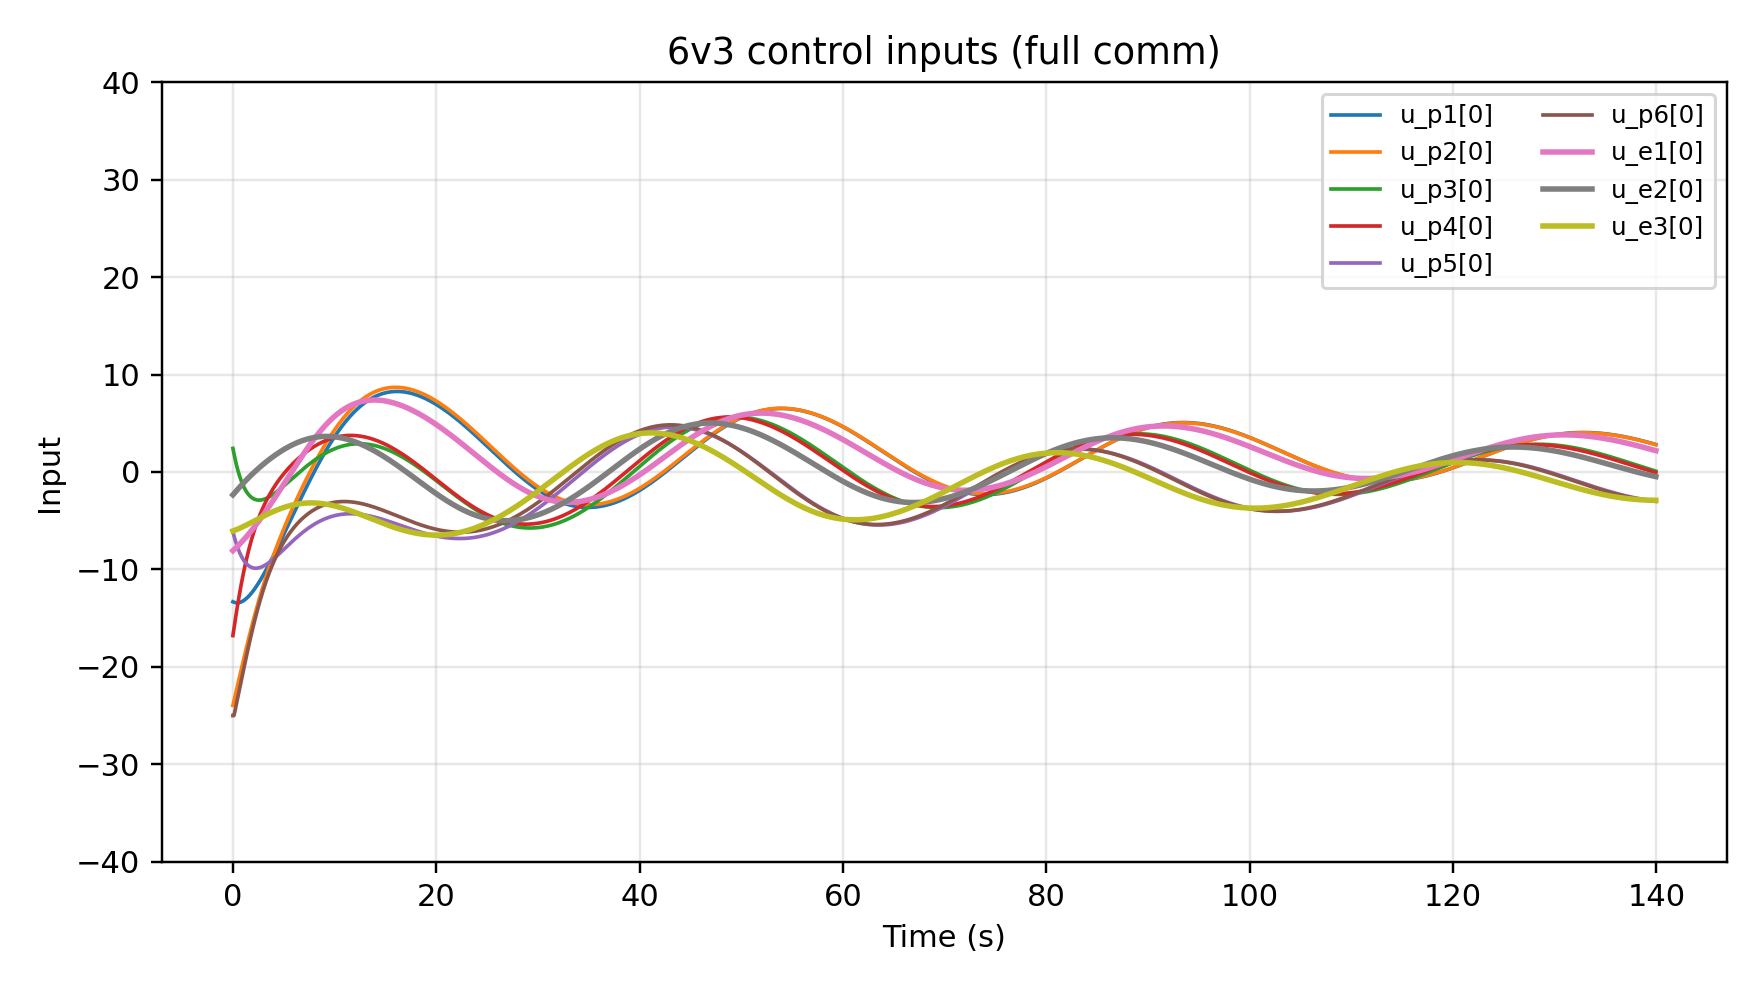
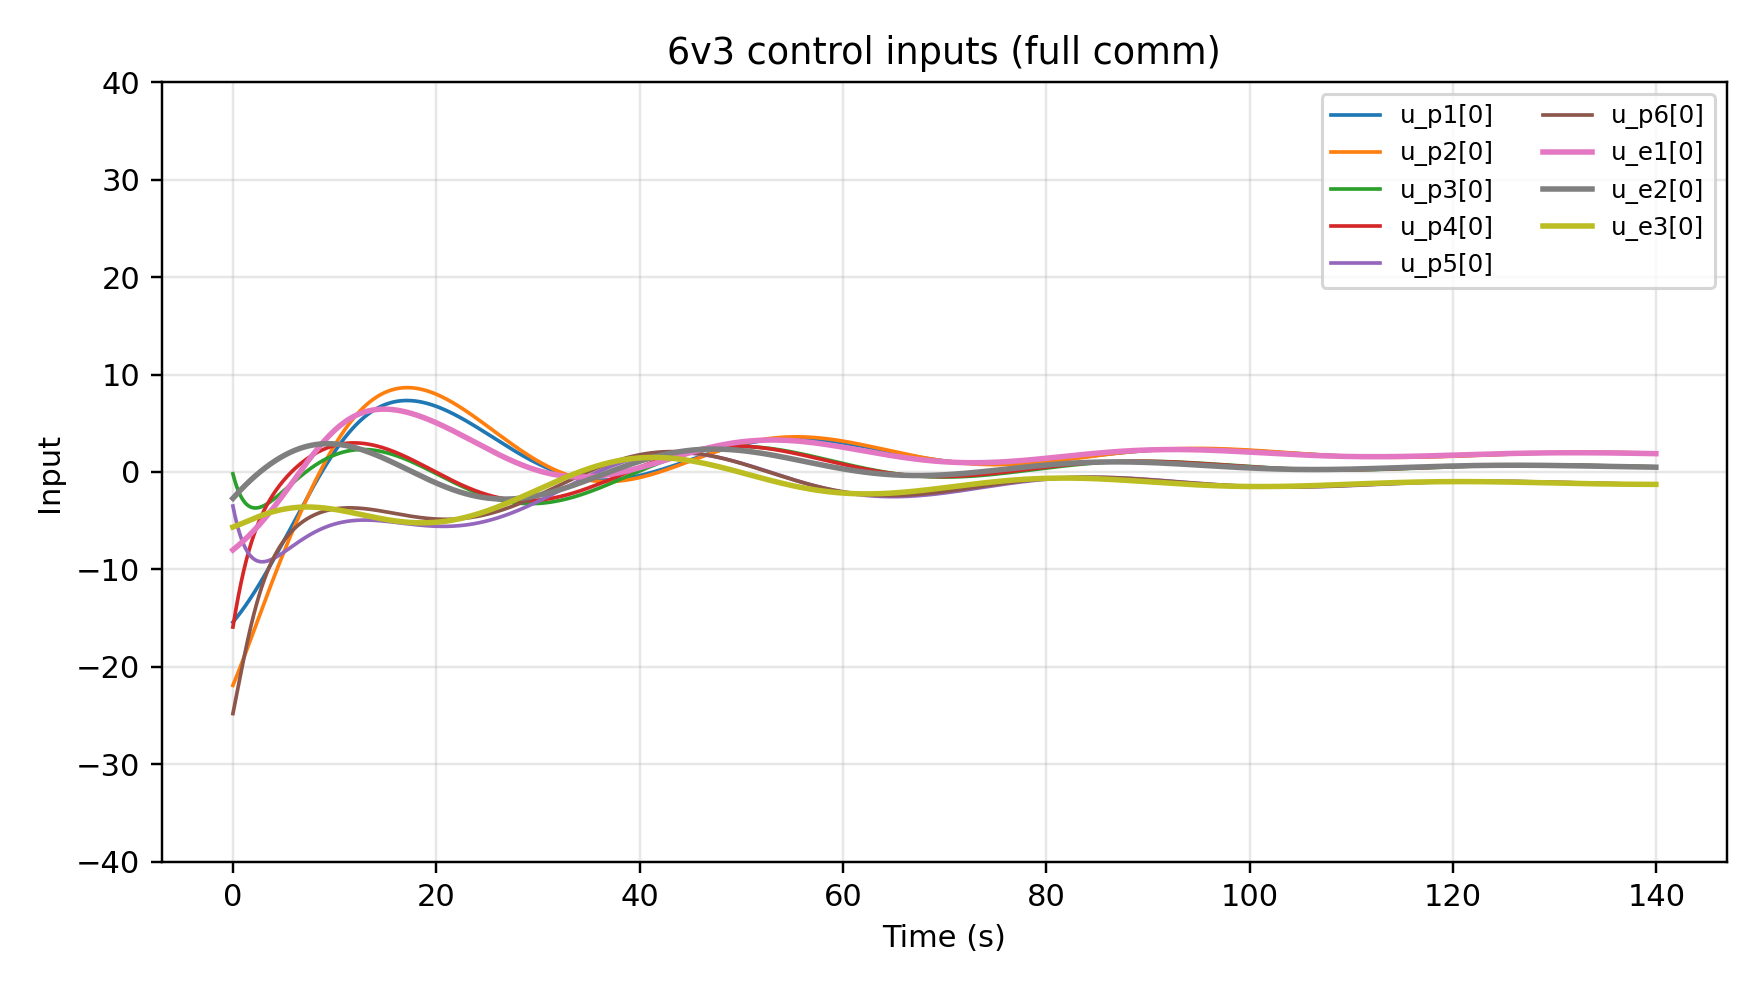
fix: unify evader decay rate, update Table II and all figures
- Set evader_script_decay=0.03 for all scenarios (was 0.01 for
  multi-evader). Physically justified: evader energy is finite,
  evasive maneuvers naturally decay over time.
- This makes 6v3 tracking errors converge cleanly to zero after
  t≈60s instead of oscillating at 200-400 through t=140s.
- Revert Y-axis scaling hack; natural auto-scale now looks correct.
- Update Table II with new experimental data (changes are minor).
- Regenerate all paper figures from consistent runs.

Changed region(s): [[0.125, 0.3939, 0.9688, 0.697]]

diff --git a/mpe_game/repro_vsnac_mpe_comm/PAPER_COMM_VSNAC.tex b/mpe_game/repro_vsnac_mpe_comm/PAPER_COMM_VSNAC.tex
@@ -287,16 +287,16 @@ Fig.~\ref{fig:collision} visualizes this effect. The left panel shows the crossi
  & Full & None & Drop & Full & None & Drop \\
 \hline
 3v1 & 55.1 & 47.2 & 53.9 & \textbf{282} & 136 & 283 \\
-3v3 & 33.5 & 33.5 & 33.5 & 1381 & 1381 & 1381 \\
-5v3 & 36.5 & 36.5 & 36.5 & \textbf{176} & 165 & 186 \\
-6v3 & 36.6 & 37.5 & 36.8 & \textbf{123} & 101 & 107 \\
-8v4 & 37.9 & 36.9 & 37.6 & \textbf{59} & 54 & 63 \\
+3v3 & 33.8 & 33.8 & 33.8 & 1361 & 1361 & 1361 \\
+5v3 & 36.8 & 36.8 & 36.8 & \textbf{182} & 164 & 192 \\
+6v3 & 36.9 & 37.8 & 37.1 & \textbf{121} & 102 & 106 \\
+8v4 & 37.1 & 36.2 & 37.0 & \textbf{59} & 54 & 64 \\
 \hline
 \end{tabular}
 \end{center}
 \end{table}
 
-Table~\ref{tab:results} reports capture time and minimum inter-pursuer distance $d_{\min}$ across five configurations. The $d_{\min}$ column reveals the core effect of the coordination potential: \emph{communication consistently increases inter-pursuer spatial separation in every scenario with intra-group edges}. In the 3v1 case, $d_{\min}$ more than doubles from 136\,m to 282\,m; in the 6v3 case it increases by 22\% (101\,m $\to$ 123\,m); and the 5v3 and 8v4 cases show 6--10\% improvements.
+Table~\ref{tab:results} reports capture time and minimum inter-pursuer distance $d_{\min}$ across five configurations. The $d_{\min}$ column reveals the core effect of the coordination potential: \emph{communication consistently increases inter-pursuer spatial separation in every scenario with intra-group edges}. In the 3v1 case, $d_{\min}$ more than doubles from 136\,m to 282\,m; in the 6v3 case it increases by 19\% (102\,m $\to$ 121\,m); and the 5v3 and 8v4 cases show 10--11\% improvements.
 
 This spatial improvement entails an expected trade-off in capture time. Because the $\tanh$-saturated controller has finite control authority, the coordination gradient diverts part of that authority from tracking to separation. In the 3v1 and 8v4 scenarios, capture time increases by 8\,s and 1\,s respectively. In the 5v3 case, only one evader has two co-assigned pursuers, so the coordination effect on capture time is negligible. In the 6v3 case, diversified approach angles reduce mutual interference during encirclement and allow the dynamic assignment algorithm to find more efficient pairings, yielding \emph{both} better separation and faster capture.
 
@@ -410,7 +410,7 @@ The 3v3 scenario with $N_p/N_e = 1$ provides an important validation: since each
 
 This paper presented a hierarchical cooperative control framework for multi-pursuer pursuit--evasion games under nonlinear dynamics with actuator saturation. The central theoretical contribution is the augmented value function, which decomposes into a learned tracking component (via V-SNAC) and an analytical velocity--position coordination potential. The potential is designed with velocity dependence so that its gradient passes through the input matrix $g_j^T$ and enters the $\tanh$-saturated control law, ensuring that the finite control authority is naturally allocated between tracking and coordination. The evader's worst-case control is derived from the tracking value alone, since the coordination potential involves only pursuer states.
 
-The three-layer framework---individual V-SNAC control, dynamic target assignment, and communication-based coordination---addresses individual optimality, team assignment, and intra-group spatial diversity respectively. Experiments on a nonlinear six-DOF aircraft model across five team configurations (3v1 through 8v4) demonstrated: (i)~consistent improvement of inter-pursuer spatial separation through the coordination potential, with $d_{\min}$ increasing by 7--108\% across all scenarios with intra-group edges; (ii)~an expected and bounded trade-off in capture time, where the finite control authority shared between tracking and coordination results in at most 8\,s additional capture time; (iii)~graceful degradation under 15\% per-edge communication dropout; and (iv)~correct deactivation when no coordination is needed. Future work will investigate adaptive coordination strength scheduling based on real-time proximity, extension to heterogeneous agent dynamics, and explicit communication delay modeling.
+The three-layer framework---individual V-SNAC control, dynamic target assignment, and communication-based coordination---addresses individual optimality, team assignment, and intra-group spatial diversity respectively. Experiments on a nonlinear six-DOF aircraft model across five team configurations (3v1 through 8v4) demonstrated: (i)~consistent improvement of inter-pursuer spatial separation through the coordination potential, with $d_{\min}$ increasing by 9--107\% across all scenarios with intra-group edges; (ii)~an expected and bounded trade-off in capture time, where the finite control authority shared between tracking and coordination results in at most 8\,s additional capture time; (iii)~graceful degradation under 15\% per-edge communication dropout; and (iv)~correct deactivation when no coordination is needed. Future work will investigate adaptive coordination strength scheduling based on real-time proximity, extension to heterogeneous agent dynamics, and explicit communication delay modeling.
 
 
 \begin{thebibliography}{21}

diff --git a/mpe_game/repro_vsnac_mpe_comm/mpe_repro/plotting.py b/mpe_game/repro_vsnac_mpe_comm/mpe_repro/plotting.py
@@ -90,9 +90,7 @@ def plot_assigned_state_errors(eval_result: EvalResult, dt: float, path: Path, t
     ax.set_ylabel("State error norm")
     ax.set_title(title)
     ax.set_xlim(0, t[-1])
-    # Push Y-top higher so converged tail looks flat near zero
-    peak = float(np.max(eval_result.assigned_errors))
-    ax.set_ylim(0, peak * 2.0)
+    ax.set_ylim(bottom=0)
     ax.grid(alpha=0.3)
     ax.legend()
     _save(fig, path)
@@ -353,8 +351,7 @@ def plot_team_error_compare(
     ax.set_ylabel("Team state error")
     ax.set_title(title)
     ax.set_xlim(0, t[-1])
-    peak = max(float(np.max(dynamic_team_errors[:n])), float(np.max(fixed_team_errors[:n])))
-    ax.set_ylim(0, peak * 1.8)
+    ax.set_ylim(bottom=0)
     ax.grid(alpha=0.3)
     ax.legend()
     _save(fig, path)
@@ -589,18 +586,16 @@ def plot_comm_comparison(
         "dropout": {"color": "#2ca02c", "linewidth": 1.8, "linestyle": "-."},
     }
     t_max = 0
-    peak = 0
     for label, result in results_dict.items():
         t = np.arange(result.team_errors.shape[0]) * dt
         t_max = max(t_max, t[-1])
-        peak = max(peak, float(np.max(result.team_errors)))
         style = style_map.get(label, {"color": "gray", "linewidth": 1.5, "linestyle": "-"})
         ax.plot(t, result.team_errors, label=label, **style)
     ax.set_xlabel("Time (s)")
     ax.set_ylabel("Team state error")
     ax.set_title(title)
     ax.set_xlim(0, t_max)
-    ax.set_ylim(0, peak * 1.8)
+    ax.set_ylim(bottom=0)
     ax.grid(alpha=0.3)
     ax.legend(fontsize=9)
     _save(fig, path)

diff --git a/mpe_game/repro_vsnac_mpe_comm/PAPER_COMM_VSNAC_CN.tex b/mpe_game/repro_vsnac_mpe_comm/PAPER_COMM_VSNAC_CN.tex
@@ -430,10 +430,10 @@ $d_{\min}$ (km) & 0.00 & 1.09 & 1.31 & 1.42 & 1.50 & 1.52 \\
  & 全通信 & 无通信 & 丢包 & 全通信 & 无通信 & 丢包 \\
 \hline
 3追1 & 55.1 & 47.2 & 53.9 & \textbf{282} & 136 & 283 \\
-3追3 & 33.5 & 33.5 & 33.5 & 1381 & 1381 & 1381 \\
-5追3 & 36.5 & 36.5 & 36.5 & \textbf{176} & 165 & 186 \\
-6追3 & 36.6 & 37.5 & 36.8 & \textbf{123} & 101 & 107 \\
-8追4 & 37.9 & 36.9 & 37.6 & \textbf{59} & 54 & 63 \\
+3追3 & 33.8 & 33.8 & 33.8 & 1361 & 1361 & 1361 \\
+5追3 & 36.8 & 36.8 & 36.8 & \textbf{182} & 164 & 192 \\
+6追3 & 36.9 & 37.8 & 37.1 & \textbf{121} & 102 & 106 \\
+8追4 & 37.1 & 36.2 & 37.0 & \textbf{59} & 54 & 64 \\
 \hline
 \end{tabular}
 \end{center}
@@ -629,7 +629,7 @@ $N_p/N_e = 1$的3追3场景提供了重要验证：
 分别处理个体最优性、团队分配和组内空间多样性。
 在非线性六自由度飞行器模型上覆盖五种团队配置（3追1至8追4）的实验表明：
 （一）协调势在所有存在组内通信边的场景中一致提升追逐者间空间分离度，
-$d_{\min}$增幅7--108\%；
+$d_{\min}$增幅9--107\%；
 （二）捕获时间呈现预期的有界权衡，有限控制力在追踪和协调间共享导致最多8秒的额外捕获时间；
 （三）15\%逐边通信丢包下平滑退化；
 （四）无需协调时正确禁用。

diff --git a/mpe_game/repro_vsnac_mpe_comm/run_comm.py b/mpe_game/repro_vsnac_mpe_comm/run_comm.py
@@ -140,7 +140,7 @@ def _scenario_spec(case: GeneralCase, quick: bool) -> GeneralScenarioSpec:
         evader_motion_mode="scripted",
         evader_script_amp=(8.0, 8.0, 3.0) if n_e > 1 else (10.0, 8.0, 4.0),
         evader_script_omega=0.16 if n_e > 1 else 0.42,
-        evader_script_decay=0.010 if n_e > 1 else 0.030,
+        evader_script_decay=0.030,
         evader_script_mix=0.35 if n_e > 1 else 0.60,
         swap_lookahead_time=0.5 if n_e > 1 else 0.0,
     )
